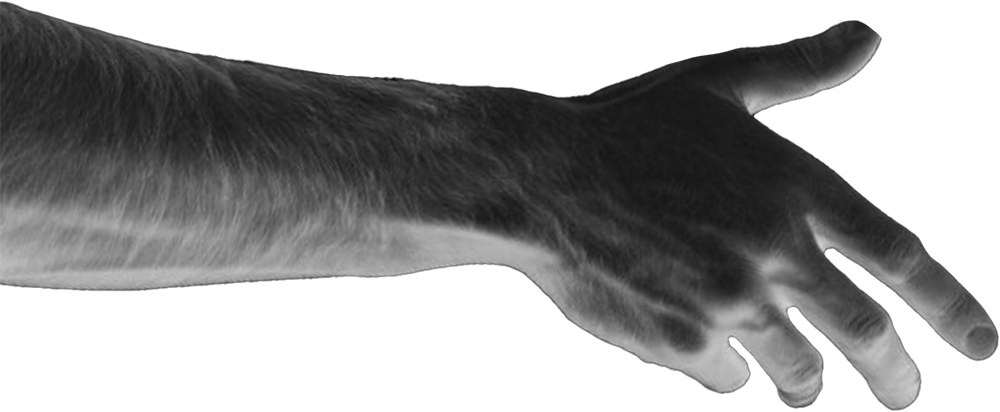
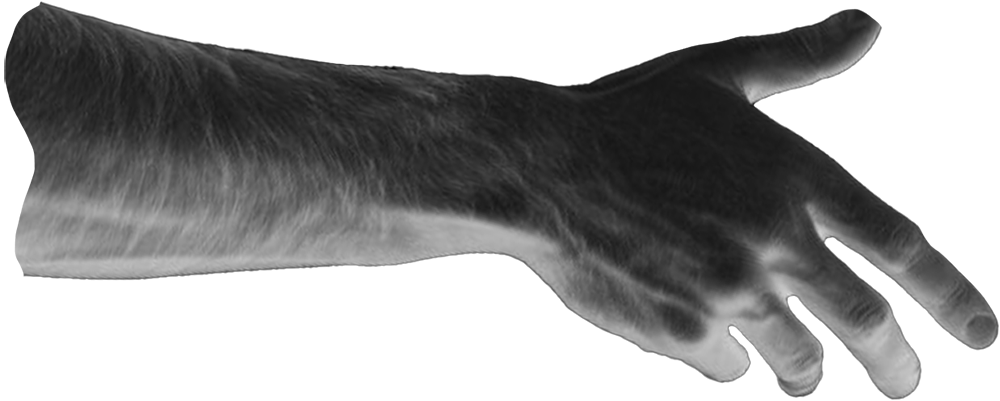
Hands updated

diff --git a/components/Header.js b/components/Header.js
@@ -3,22 +3,27 @@ import styles from "../styles/Header.module.css";
 export default function Header() {
   return (
     <header className="font-['Wagon']">
-      {/*
-      <div className="topBar w-11/12 border-b-2 border-white flex justify-between py-3 mx-auto text-white absolute top-0 right-[50%] translate-x-1/2 z-20">
-        <div>LOGO</div>
-        <div>COLORS</div>
+      <div className="topBar w-full py-3 mx-auto text-[#DBDBDB] absolute top-0 right-[50%] translate-x-1/2 z-20">
+        <div className="font-bold tex-[50px] text-right pr-[20px]">
+          <p>
+            Future.
+            <br />
+            Experience.
+            <br />
+            Lab.
+          </p>
+        </div>
       </div>
-      */}
-      <div className="h-screen grid grid-rows-3 bg-black text-[150px] header-break:text-[100px] header-smallest-text:text-[50px]">
-        <div className="relative header-break:flex header-break:items-center">
+      <div className="h-screen grid grid-rows-3 bg-black text-[175px] header-break:text-[100px] header-smallest-text:text-[50px]">
+        <div className="relative flex items-end">
           <a
             href="#"
-            className=" text-main-red z-30 pl-28 relative uppercase font-bold hover:font-extralight hover:italic header-smallest-text:pl-[20px]"
+            className=" text-main-red z-30 pl-[40px] relative uppercase font-bold hover:font-extralight hover:italic header-smallest-text:pl-[20px]"
             tabIndex="2"
           >
             labs
           </a>
-          <a className="text-blue-green font-bold pl-[100px] relative z-30 header-break:pl-[50px] header-smallest-text:pl-[20px]">
+          <a className="text-blue-green font-bold pl-[40px] relative z-30 header-break:pl-[50px] header-smallest-text:pl-[20px]">
             01 02
           </a>
           <video
@@ -29,10 +34,10 @@ export default function Header() {
             className="absolute right-0 top-0 w-screen h-full object-cover"
           />
         </div>
-        <div className="font-bold relative header-break:flex header-break:items-center">
+        <div className="font-bold relative flex items-center">
           <a
             href="#"
-            className="text-main-red z-30 pl-28 relative uppercase hover:font-extralight hover:italic header-smallest-text:pl-[20px]"
+            className="text-main-red z-30 pl-[40px] relative uppercase hover:font-extralight hover:italic header-smallest-text:pl-[20px]"
             tabIndex="3"
           >
             Future
@@ -45,10 +50,10 @@ export default function Header() {
             className="absolute right-0 top-0 w-screen h-full object-cover"
           />
         </div>
-        <div className="font-bold relative header-break:flex header-break:items-center">
+        <div className="font-bold relative header-break:flex header-break:items-start header-break:pt-[20px]">
           <a
             href="#"
-            className="text-main-red z-30 pl-28 relative uppercase hover:font-extralight hover:italic header-smallest-text:pl-[20px]"
+            className="text-main-red z-30 pl-[40px] relative uppercase hover:font-extralight hover:italic header-smallest-text:pl-[20px]"
             tabIndex="3"
           >
             Contact

diff --git a/components/HandSection.js b/components/HandSection.js
@@ -6,8 +6,8 @@ export default function HandSection() {
     <div className="grid h-[800px] pt-[100px] grid-cols-50/50 overflow-hidden hand-order:grid-rows-2 hand-order:grid-cols-none hand-order:h-auto bg-main-red text-white">
       <div className="relative hand-order:flex flex-col hand-order:pt-[120px]">
         <div className="rotate-[6deg] -translate-x-[40px] absolute hand-order:static hand-order:-translate-y-0 hand-order:-translate-x-[100px] hand-order:w-fit hand-order:rotate-3 z-40">
-          <Parallax speed={10} translateX={[10, 40]} translateY={[0, 0]}>
-            <Image src="/images/hands/left.png" width="1000px" height="412px" />
+          <Parallax speed={20} translateX={[10, 30]} translateY={[0, 0]}>
+            <Image src="/images/hands/left.png" width="1000px" height="401px" />
           </Parallax>
         </div>
         <p className="absolute -translate-y-1/2 top-[80%] left-0 text-[32px] text-left px-[40px] pb-[100px] hand-order:static hand-order:-translate-y-0 hand-order:pt-[120px]">
@@ -19,11 +19,11 @@ export default function HandSection() {
       </div>
       <div className="relative hand-order:flex flex-col hand-order:py-[60px]">
         <div className="-rotate-[6deg] translate-x-[40px] absolute hand-order:static hand-order:-translate-y-0 hand-order:w-fit hand-order:self-end hand-order:-rotate-3 hand-order:translate-x-[100px]">
-          <Parallax speed={10} translateX={[-10, -40]} translateY={[0, 0]}>
+          <Parallax speed={20} translateX={[-10, -30]} translateY={[0, 0]}>
             <Image
               src="/images/hands/right.png"
               width="1000px"
-              height="412px"
+              height="395px"
             />
           </Parallax>
         </div>
